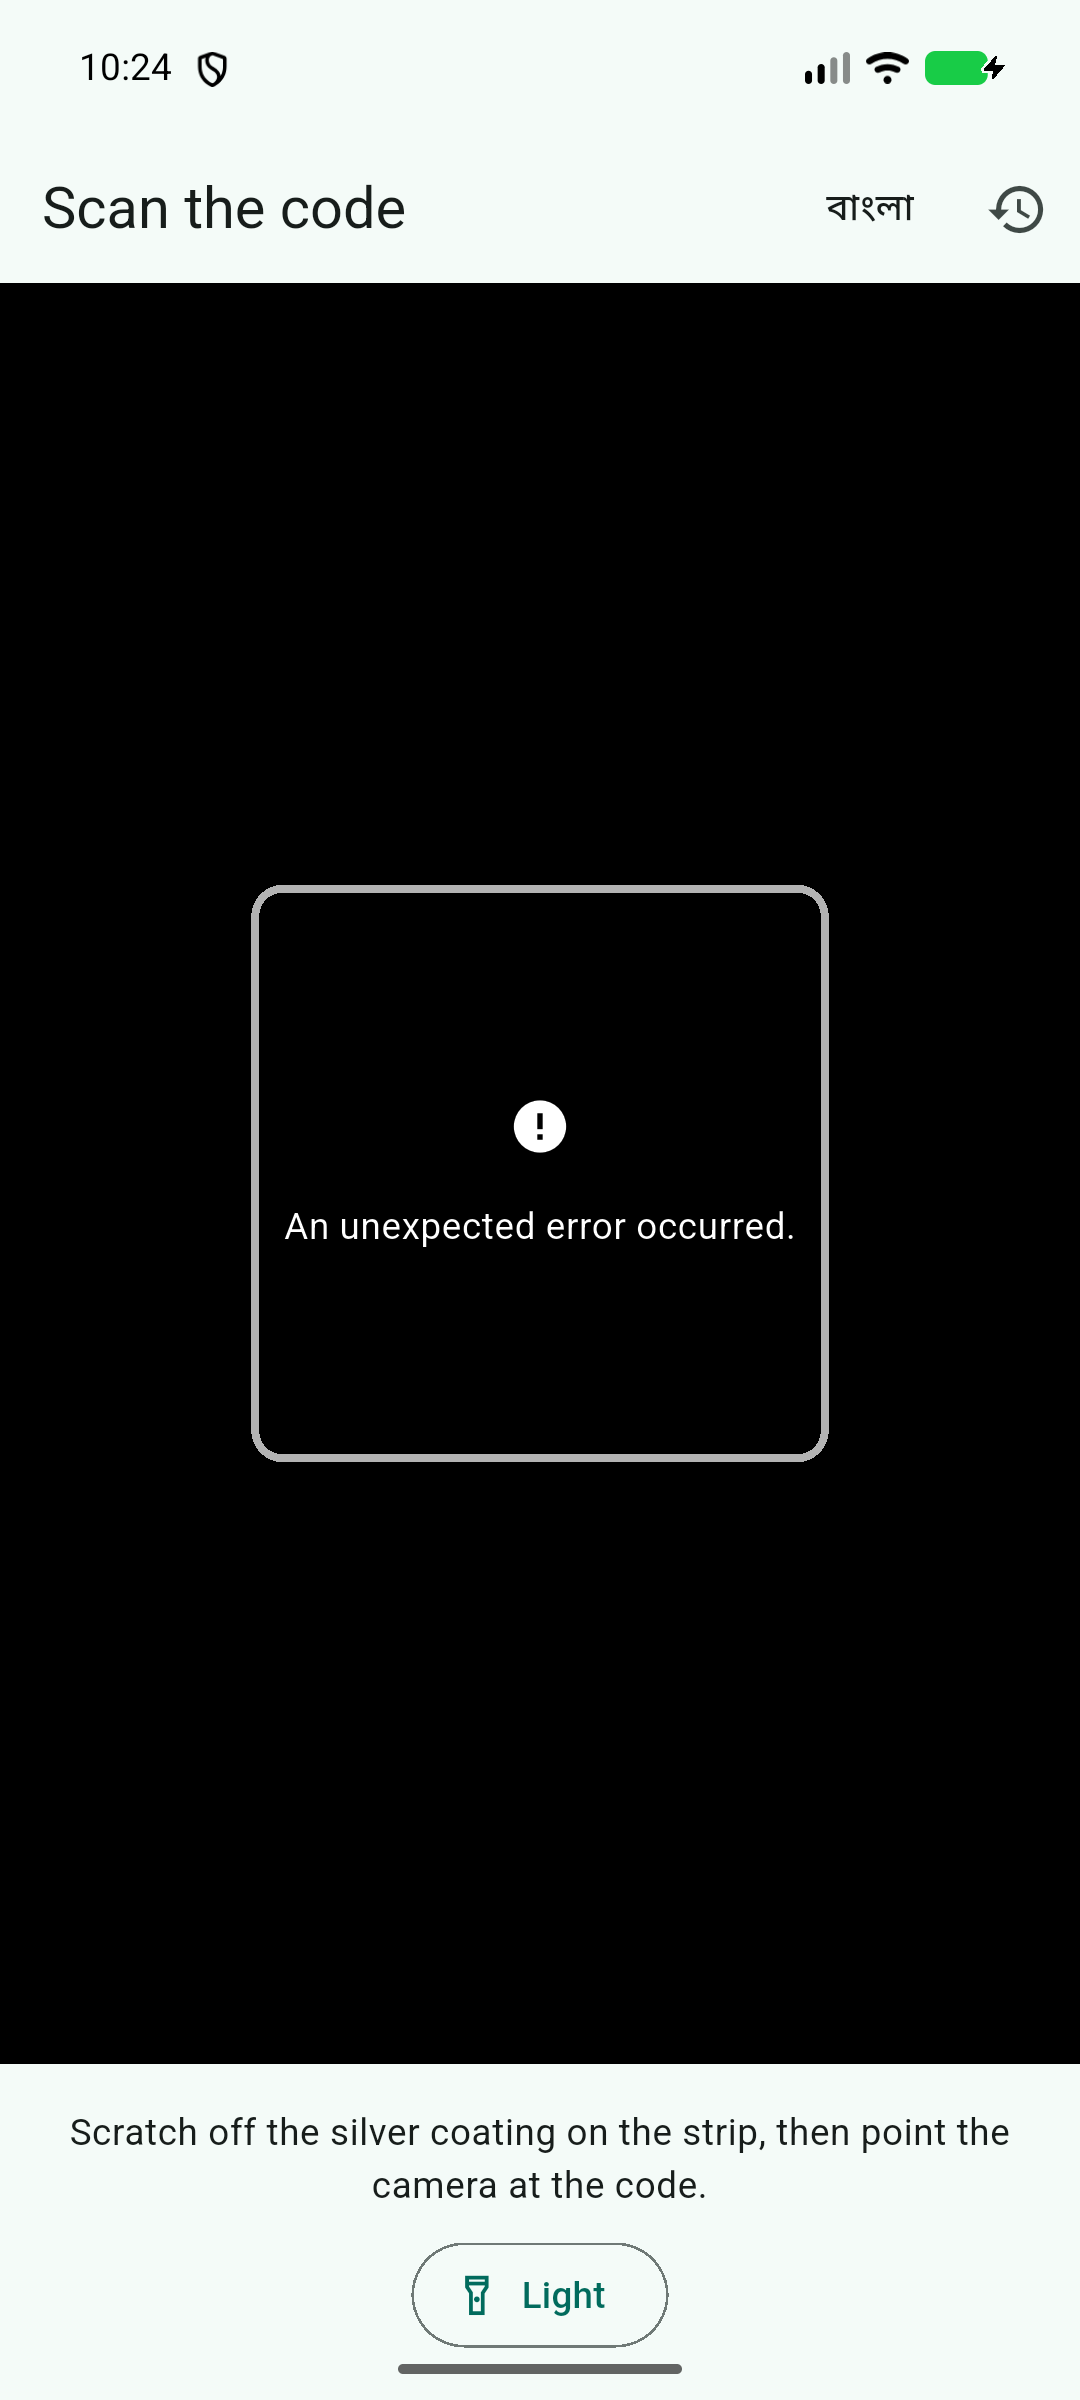
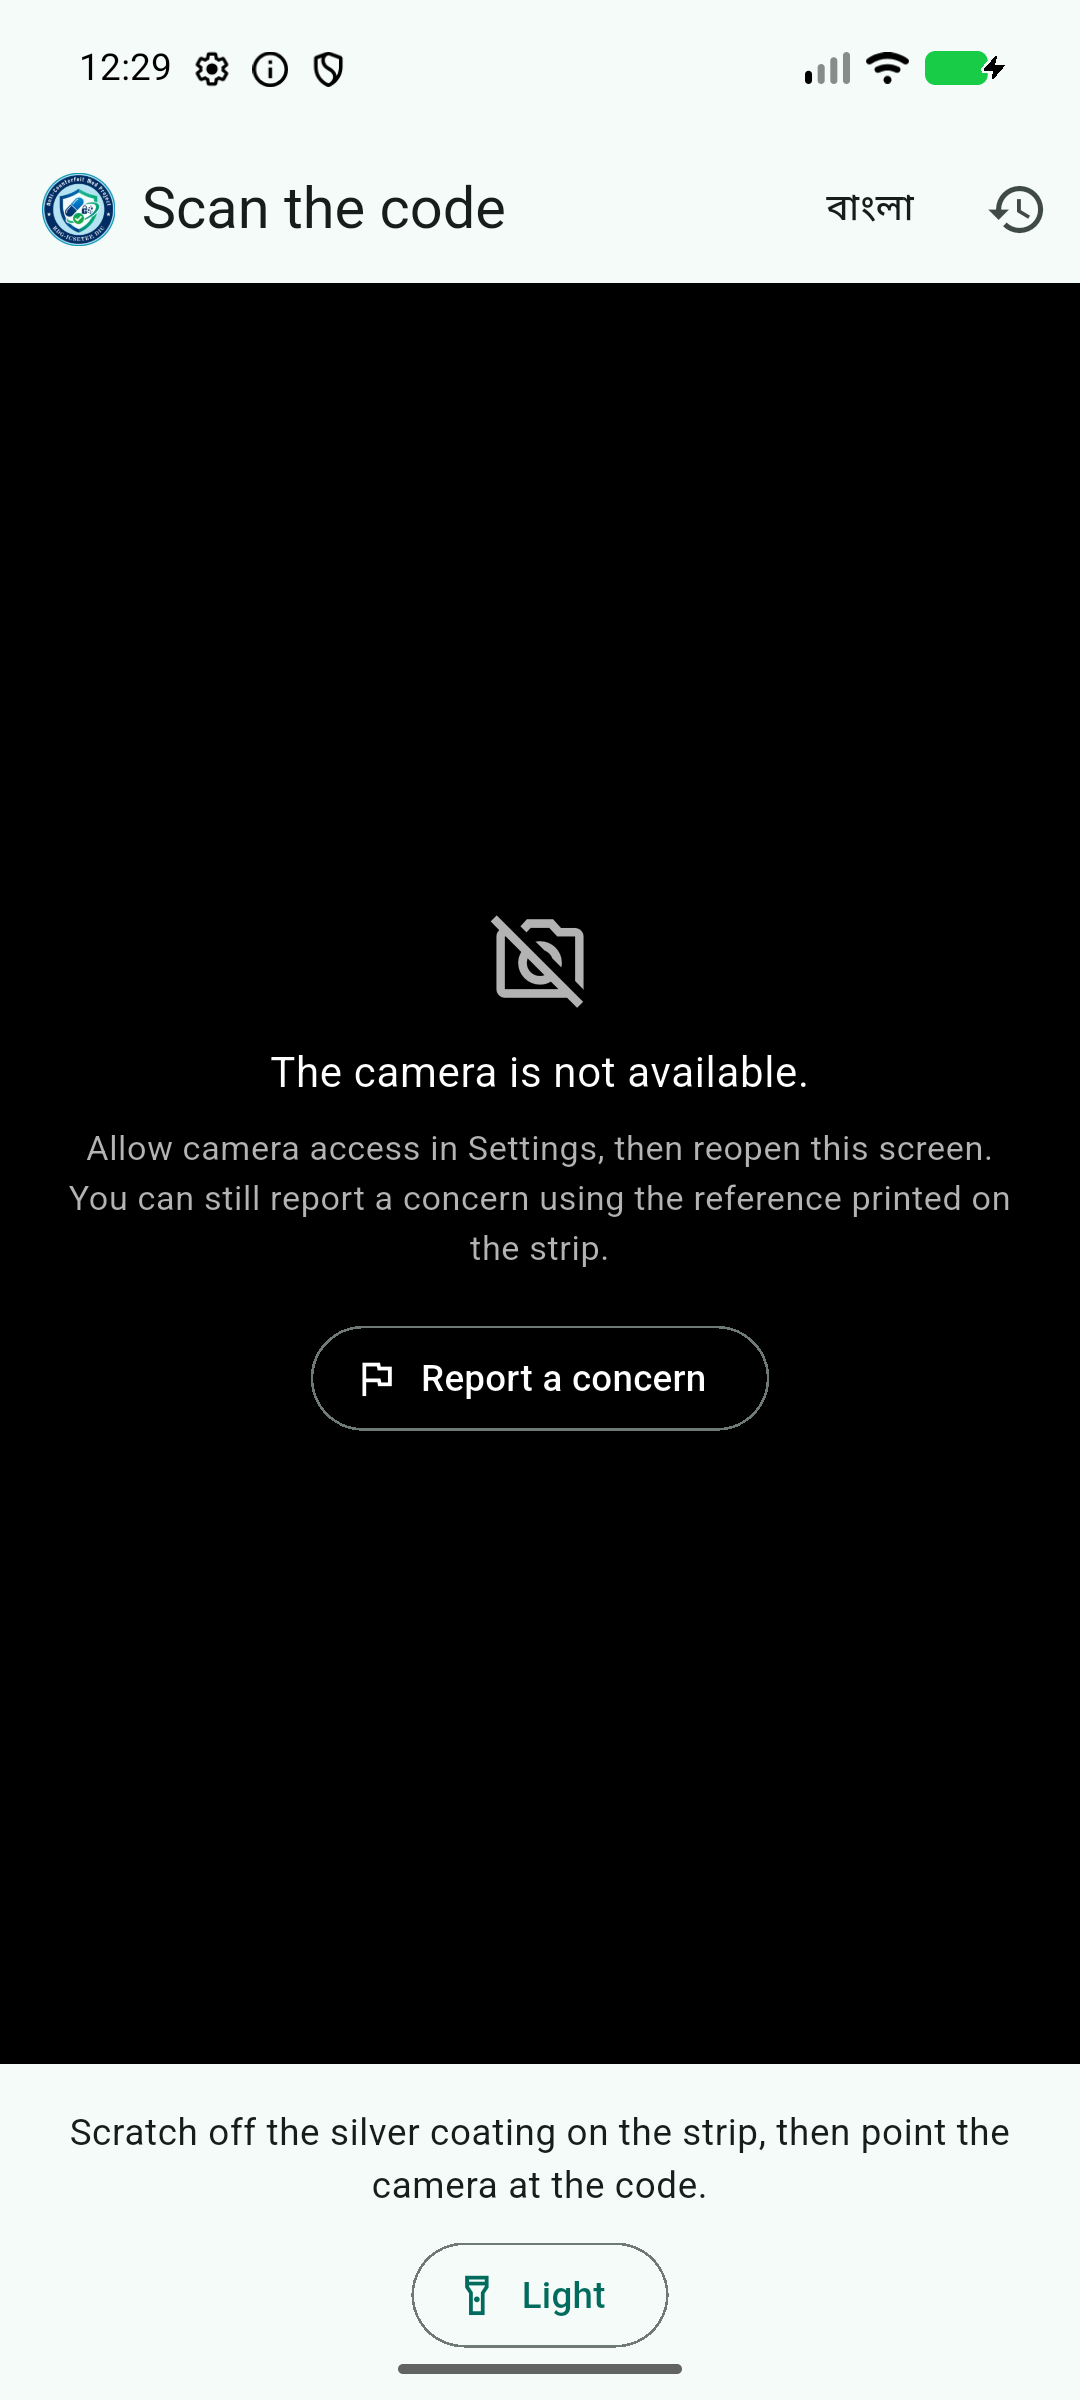
Rename to Anticounterfeit Med and adopt the project mark
Replaces the working name everywhere it was user-visible or baked into an
identifier: the app label and its Dart class, the authenticator issuer a staff
member sees when enrolling, the portal title and sidebar, the landing page, the
physical test sheet, and the built APK names.

The mark from the public site is now carried in this repository and used on the
landing page header, the portal sidebar and sign-in screen, the app bar, and as
the Android launcher icon. Every sized copy is generated from the one source
file by `make brand`, so a future change to the mark reaches all three surfaces
together rather than leaving one showing an old badge.

The landing page's mark is same-origin and its content security policy already
allowed that, with no external request introduced. The inline style block
changed, so its hash was regenerated and the nginx configuration updated with
it; the fragment-stripping behaviour was re-checked in a browser afterwards.

Looking at the running app caught a layering fault that predates this change:
the framing guide was a sibling of the camera preview rather than part of it, so
it drew over the camera-unavailable message and cut the text in half. It now
lives in the preview's own overlay and disappears with it. Confirmed on a device
in both languages.

Changed region(s): [[0.0611, 0.3438, 0.9167, 0.625], [0.0306, 0.0625, 0.4583, 0.125], [0.1833, 0.0, 0.2139, 0.0312]]

diff --git a/landing/index.html b/landing/index.html
@@ -3,10 +3,11 @@
 <head>
 <meta charset="utf-8">
 <meta name="viewport" content="width=device-width, initial-scale=1">
-<title>Verify your medicine — MedSecure PQC</title>
-<meta name="description" content="How to check a medicine package with the official MedSecure PQC app.">
+<title>Verify your medicine — Anticounterfeit Med</title>
+<meta name="description" content="How to check a medicine package with the official Anticounterfeit Med app.">
 <meta name="referrer" content="no-referrer">
 <meta name="robots" content="noindex">
+<link rel="icon" href="favicon.png" type="image/png">
 <script>
 /* Runs before anything renders.
    The scanned QR puts a package token in the URL fragment. Strip it from the
@@ -59,7 +60,9 @@
   }
   .wrap { max-width: 34rem; margin: 0 auto; padding: 2rem 1rem 3rem; }
   header { border-bottom: 1px solid var(--border); padding-bottom: 1.25rem; margin-bottom: 1.5rem; }
-  .mark { font-size: .78rem; letter-spacing: .09em; text-transform: uppercase; color: var(--muted); margin: 0 0 .4rem; }
+  .brand { display: flex; align-items: center; gap: .75rem; margin-bottom: .75rem; }
+  .brand img { width: 52px; height: 52px; flex-shrink: 0; }
+  .mark { font-size: .78rem; letter-spacing: .09em; text-transform: uppercase; color: var(--muted); margin: 0; }
   h1 { font-size: 1.5rem; line-height: 1.25; margin: 0 0 .35rem; }
   .bn { font-size: 1.15rem; color: var(--muted); margin: 0; }
   h2 { font-size: 1.1rem; margin: 2rem 0 .75rem; }
@@ -110,7 +113,11 @@
 <div class="wrap">
 
   <header>
-    <p class="mark">MedSecure PQC</p>
+    <div class="brand">
+      <img src="mark.png" width="52" height="52"
+           alt="Anticounterfeit Med" decoding="async">
+      <p class="mark">Anticounterfeit Med</p>
+    </div>
     <h1>Open the official app to check this package</h1>
     <p class="bn">এই প্যাকেটটি যাচাই করতে অফিশিয়াল অ্যাপটি খুলুন</p>
   </header>
@@ -127,8 +134,8 @@
   <h2>What to do / যা করবেন</h2>
   <ol>
     <li>
-      <span class="en">Install the official MedSecure PQC app.</span>
-      <span class="bn">অফিশিয়াল MedSecure PQC অ্যাপটি ইনস্টল করুন।</span>
+      <span class="en">Install the official Anticounterfeit Med app.</span>
+      <span class="bn">অফিশিয়াল Anticounterfeit Med অ্যাপটি ইনস্টল করুন।</span>
     </li>
     <li>
       <span class="en">Scratch off the silver coating over the QR code on the strip.</span>

diff --git a/consumer-app/lib/screens/scan_screen.dart b/consumer-app/lib/screens/scan_screen.dart
@@ -111,7 +111,13 @@ class _ScanScreenState extends State<ScanScreen> {
 
     return Scaffold(
       appBar: AppBar(
-        title: Text(s.scanTitle),
+        title: Row(
+          children: [
+            Image.asset('assets/brand/mark.png', width: 28, height: 28),
+            const SizedBox(width: 10),
+            Flexible(child: Text(s.scanTitle, overflow: TextOverflow.ellipsis)),
+          ],
+        ),
         actions: [
           TextButton(
             onPressed: state.toggleLanguage,
@@ -148,15 +154,19 @@ class _ScanScreenState extends State<ScanScreen> {
                       MaterialPageRoute(builder: (_) => const ReportScreen()),
                     ),
                   ),
-                ),
-                // Framing guidance.
-                IgnorePointer(
-                  child: Container(
-                    width: 220,
-                    height: 220,
-                    decoration: BoxDecoration(
-                      border: Border.all(color: Colors.white70, width: 3),
-                      borderRadius: BorderRadius.circular(12),
+                  // Framing guidance belongs to the preview, so it disappears
+                  // with it. Drawn as a stack sibling it would sit on top of
+                  // the camera-unavailable message and cut the text in half.
+                  overlayBuilder: (context, constraints) => IgnorePointer(
+                    child: Center(
+                      child: Container(
+                        width: 220,
+                        height: 220,
+                        decoration: BoxDecoration(
+                          border: Border.all(color: Colors.white70, width: 3),
+                          borderRadius: BorderRadius.circular(12),
+                        ),
+                      ),
                     ),
                   ),
                 ),

diff --git a/consumer-app/lib/main.dart b/consumer-app/lib/main.dart
@@ -11,16 +11,16 @@ import 'package:flutter/material.dart';
 import 'app_state.dart';
 import 'screens/scan_screen.dart';
 
-void main() => runApp(const MedSecureApp());
+void main() => runApp(const AnticounterfeitMedApp());
 
-class MedSecureApp extends StatefulWidget {
-  const MedSecureApp({super.key});
+class AnticounterfeitMedApp extends StatefulWidget {
+  const AnticounterfeitMedApp({super.key});
 
   @override
-  State<MedSecureApp> createState() => _MedSecureAppState();
+  State<AnticounterfeitMedApp> createState() => _AnticounterfeitMedAppState();
 }
 
-class _MedSecureAppState extends State<MedSecureApp> {
+class _AnticounterfeitMedAppState extends State<AnticounterfeitMedApp> {
   final AppState _state = AppState();
 
   @override
@@ -34,7 +34,7 @@ class _MedSecureAppState extends State<MedSecureApp> {
     return AppScope(
       state: _state,
       child: MaterialApp(
-        title: 'MedSecure PQC',
+        title: 'Anticounterfeit Med',
         debugShowCheckedModeBanner: false,
         theme: ThemeData(
           colorSchemeSeed: const Color(0xFF0B6B5E),

diff --git a/consumer-app/lib/l10n/strings.dart b/consumer-app/lib/l10n/strings.dart
@@ -24,7 +24,7 @@ class Strings {
   String _pick(String en, String bn) => _bn ? bn : en;
 
   // --- shell ---------------------------------------------------------------
-  String get appName => 'MedSecure PQC';
+  String get appName => 'Anticounterfeit Med';
   String get scanTitle => _pick('Scan the code', 'কোডটি স্ক্যান করুন');
   String get historyTitle => _pick('My checks', 'আমার যাচাইসমূহ');
   String get reportTitle => _pick('Report a concern', 'উদ্বেগ জানান');
@@ -40,8 +40,8 @@ class Strings {
       );
   String get torch => _pick('Light', 'আলো');
   String get notOurCode => _pick(
-        'That is not a MedSecure code.',
-        'এটি MedSecure কোড নয়।',
+        'That is not an Anticounterfeit Med code.',
+        'এটি Anticounterfeit Med কোড নয়।',
       );
   String get cameraUnavailable => _pick(
         'The camera is not available.',

diff --git a/staff-web/app/globals.css b/staff-web/app/globals.css
@@ -51,8 +51,18 @@ h2 { font-size: 1.1rem; margin: 1.5rem 0 0.5rem; }
   width: 230px; flex-shrink: 0; background: var(--surface);
   border-right: 1px solid var(--border); padding: 1.25rem 0;
 }
-.brand { padding: 0 1.25rem 1rem; border-bottom: 1px solid var(--border); }
-.brand strong { display: block; font-size: 0.95rem; }
+.brand {
+  padding: 0 1.25rem 1rem; border-bottom: 1px solid var(--border);
+  display: flex; align-items: center; gap: 0.7rem;
+}
+.brand img { flex-shrink: 0; }
+.brand strong { display: block; font-size: 0.95rem; line-height: 1.2; }
+.brand .muted { font-size: 0.82rem; }
+
+.auth-brand {
+  display: flex; align-items: center; gap: 0.75rem; margin-bottom: 0.25rem;
+}
+.auth-brand h1 { margin: 0; }
 .nav { padding: 0.75rem 0.5rem; display: flex; flex-direction: column; gap: 2px; }
 .nav a {
   padding: 0.5rem 0.75rem; border-radius: var(--radius); color: var(--text);

diff --git a/staff-web/app/(portal)/layout.tsx b/staff-web/app/(portal)/layout.tsx
@@ -1,5 +1,6 @@
 "use client";
 
+import Image from "next/image";
 import Link from "next/link";
 import { usePathname, useRouter } from "next/navigation";
 import { useEffect } from "react";
@@ -33,8 +34,17 @@ function Shell({ children }: { children: React.ReactNode }) {
     <div className="shell">
       <aside className="sidebar">
         <div className="brand">
-          <strong>MedSecure PQC</strong>
-          <span className="muted">{membership.organization.name}</span>
+          <Image
+            src="/mark.png"
+            alt=""
+            width={40}
+            height={40}
+            priority
+          />
+          <div>
+            <strong>Anticounterfeit Med</strong>
+            <span className="muted">{membership.organization.name}</span>
+          </div>
         </div>
         <nav className="nav">
           <NavLink href="/" label="Overview" />

diff --git a/staff-web/app/login/page.tsx b/staff-web/app/login/page.tsx
@@ -1,6 +1,7 @@
 "use client";
 
 import { useState } from "react";
+import Image from "next/image";
 import { useRouter } from "next/navigation";
 import { ApiError, Membership, api, primeCsrf } from "@/lib/api";
 
@@ -73,7 +74,10 @@ export default function LoginPage() {
   return (
     <main className="center">
       <div className="card auth-card">
-        <h1>MedSecure PQC</h1>
+        <div className="auth-brand">
+          <Image src="/mark.png" alt="" width={64} height={64} priority />
+          <h1>Anticounterfeit Med</h1>
+        </div>
         <p className="muted">Manufacturer and platform administration.</p>
 
         {error && <div className="alert error">{error}</div>}

diff --git a/staff-web/app/layout.tsx b/staff-web/app/layout.tsx
@@ -2,7 +2,7 @@ import type { Metadata } from "next";
 import "./globals.css";
 
 export const metadata: Metadata = {
-  title: "MedSecure PQC — Staff",
+  title: "Anticounterfeit Med — Staff",
   description: "Manufacturer and platform administration.",
   robots: { index: false, follow: false },
 };

diff --git a/scripts/build_brand_assets.py b/scripts/build_brand_assets.py
@@ -1,0 +1,63 @@
+#!/usr/bin/env python
+"""Generate every sized copy of the project mark from one source file.
+
+Keeping these generated rather than hand-placed means a change to the mark
+reaches the app, the portal and the landing page together, instead of leaving
+one surface showing an old badge.
+"""
+
+from __future__ import annotations
+
+import pathlib
+import sys
+
+from PIL import Image
+
+ROOT = pathlib.Path(__file__).resolve().parent.parent
+SOURCE = ROOT / "assets" / "brand" / "mark.webp"
+
+#: Android launcher densities. The launcher icon is the mark on its own; the
+#: badge already carries its own circular border.
+LAUNCHER_SIZES = {
+    "mipmap-mdpi": 48,
+    "mipmap-hdpi": 72,
+    "mipmap-xhdpi": 96,
+    "mipmap-xxhdpi": 144,
+    "mipmap-xxxhdpi": 192,
+}
+
+OUTPUTS = [
+    (ROOT / "landing" / "mark.png", 256),
+    (ROOT / "landing" / "favicon.png", 64),
+    (ROOT / "staff-web" / "public" / "mark.png", 256),
+    (ROOT / "staff-web" / "app" / "icon.png", 64),
+    (ROOT / "consumer-app" / "assets" / "brand" / "mark.png", 256),
+]
+
+
+def main() -> int:
+    if not SOURCE.exists():
+        print(f"missing source mark: {SOURCE}", file=sys.stderr)
+        return 1
+
+    mark = Image.open(SOURCE).convert("RGBA")
+    print(f"source: {SOURCE.name} {mark.size[0]}x{mark.size[1]}")
+
+    for path, size in OUTPUTS:
+        path.parent.mkdir(parents=True, exist_ok=True)
+        mark.resize((size, size), Image.LANCZOS).save(path, optimize=True)
+        print(f"  {path.relative_to(ROOT)}  {size}x{size}")
+
+    res = ROOT / "consumer-app" / "android" / "app" / "src" / "main" / "res"
+    for folder, size in LAUNCHER_SIZES.items():
+        target = res / folder
+        target.mkdir(parents=True, exist_ok=True)
+        resized = mark.resize((size, size), Image.LANCZOS)
+        resized.save(target / "ic_launcher.png", optimize=True)
+        print(f"  {(target / 'ic_launcher.png').relative_to(ROOT)}  {size}x{size}")
+
+    return 0
+
+
+if __name__ == "__main__":
+    sys.exit(main())

diff --git a/spikes/s1-qr/generate_test_labels.py b/spikes/s1-qr/generate_test_labels.py
@@ -125,7 +125,7 @@ def main() -> None:
 </style>
 </head>
 <body>
-<h1>Physical QR test sheet &mdash; MedSecure PQC</h1>
+<h1>Physical QR test sheet &mdash; Anticounterfeit Med</h1>
 <div class="warn">
   <strong>Print at 100% scale.</strong> Turn off &ldquo;fit to page&rdquo;,
   &ldquo;shrink oversized pages&rdquo; and any scaling in the print dialog, then

diff --git a/backend/apps/organizations/mfa.py b/backend/apps/organizations/mfa.py
@@ -17,7 +17,7 @@ from django.utils import timezone
 #: Accept one step either side of now, to tolerate clock drift on cheap phones.
 VALID_WINDOW = 1
 
-ISSUER = "MedSecure PQC"
+ISSUER = "Anticounterfeit Med"
 
 
 def new_secret() -> str:

diff --git a/docs/15-open-decisions.md b/docs/15-open-decisions.md
@@ -34,7 +34,7 @@ Update the Status column as answers arrive; record the answer and the date.
 
 | # | Decision | Notes | Status |
 | --- | --- | --- | --- |
-| D17 | **What serves `/` once QRs are printed?** | The root currently serves the project's "MedSecure PQC" marketing page, which has no install instructions and no fragment stripping. A scanned QR lands there with the token sitting in the URL bar and browser history. Three options in docs/10. **Needs an owner decision before any QR is printed.** | **Open — blocking print** |
+| D17 | **What serves `/` once QRs are printed?** | The root currently serves the project's public marketing page, which has no install instructions and no fragment stripping. A scanned QR lands there with the token sitting in the URL bar and browser history. Three options in docs/10. **Needs an owner decision before any QR is printed.** | **Open — blocking print** |
 | D18 | **Register a short domain for the QR?** | The printed URL is 2 characters over the QR version-6 boundary, so every label pays for a version-7 symbol (0.377 mm modules at 20 mm / EC Q). A ~10-character host would recover version 6 and an 8% larger module, improving decode margin through the scratch layer. Costs a second domain to own, redirect and protect. Only worth deciding if the 20 mm / Q physical test fails. | Open — revisit after the physical test |
 | D19 | **Firebase App Check, Play Integrity direct, or neither?** | **Resolved 2026-09-17: Firebase App Check with the Play Integrity provider.** Costs nothing — App Check is unbilled and Play Integrity is free within a 10,000/day quota — and it verifies offline against a cached JWKS, adding no round trip to a scan. Implemented and tested in `apps/verification/attestation.py`. **Do not attach the reCAPTCHA Enterprise provider**, which bills above 10,000 assessments per month. | **Closed** |
 | D20 | **Does attestation lock out genuine patients?** | Play Integrity and App Check both need Google Play Services and a Play-distributed build. Sideloaded APKs and devices without Play Services are common in Bangladesh. As specified, such a user gets "Unable to verify on this device" and **cannot check their medicine at all**. For a patient-safety tool that is a real harm, and it is a product decision rather than a technical one: hard gate, or degrade to a rate-limited unattested path. **Raise with the owner before the pilot.** | **Open — patient impact** |
